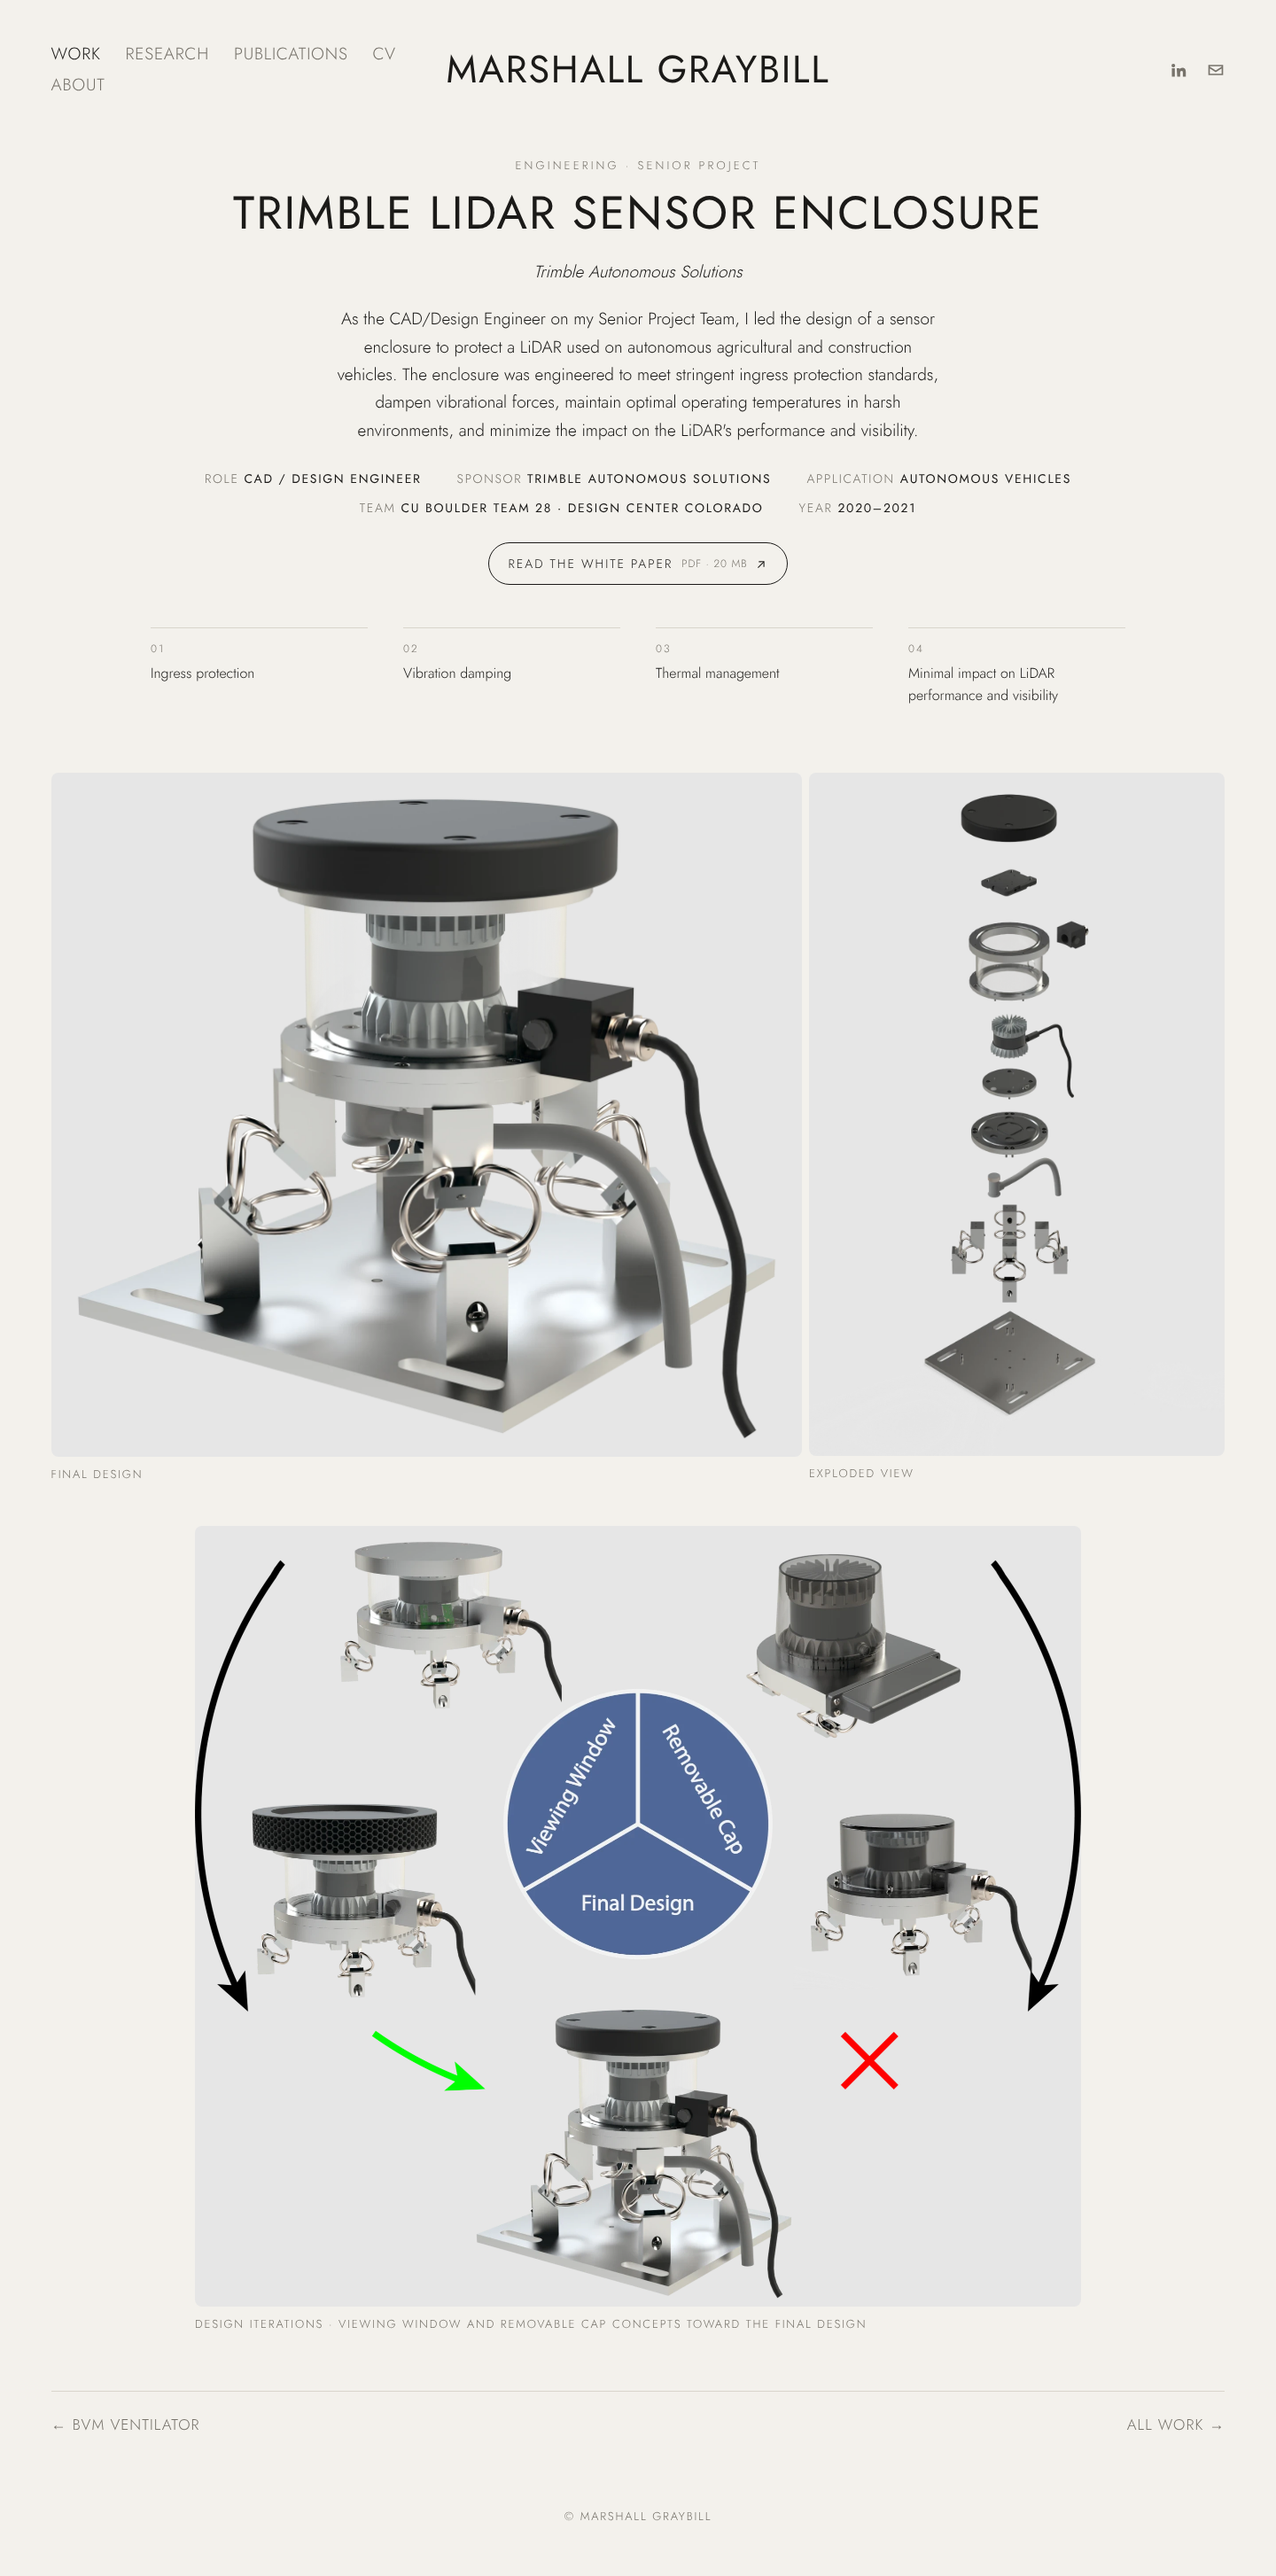
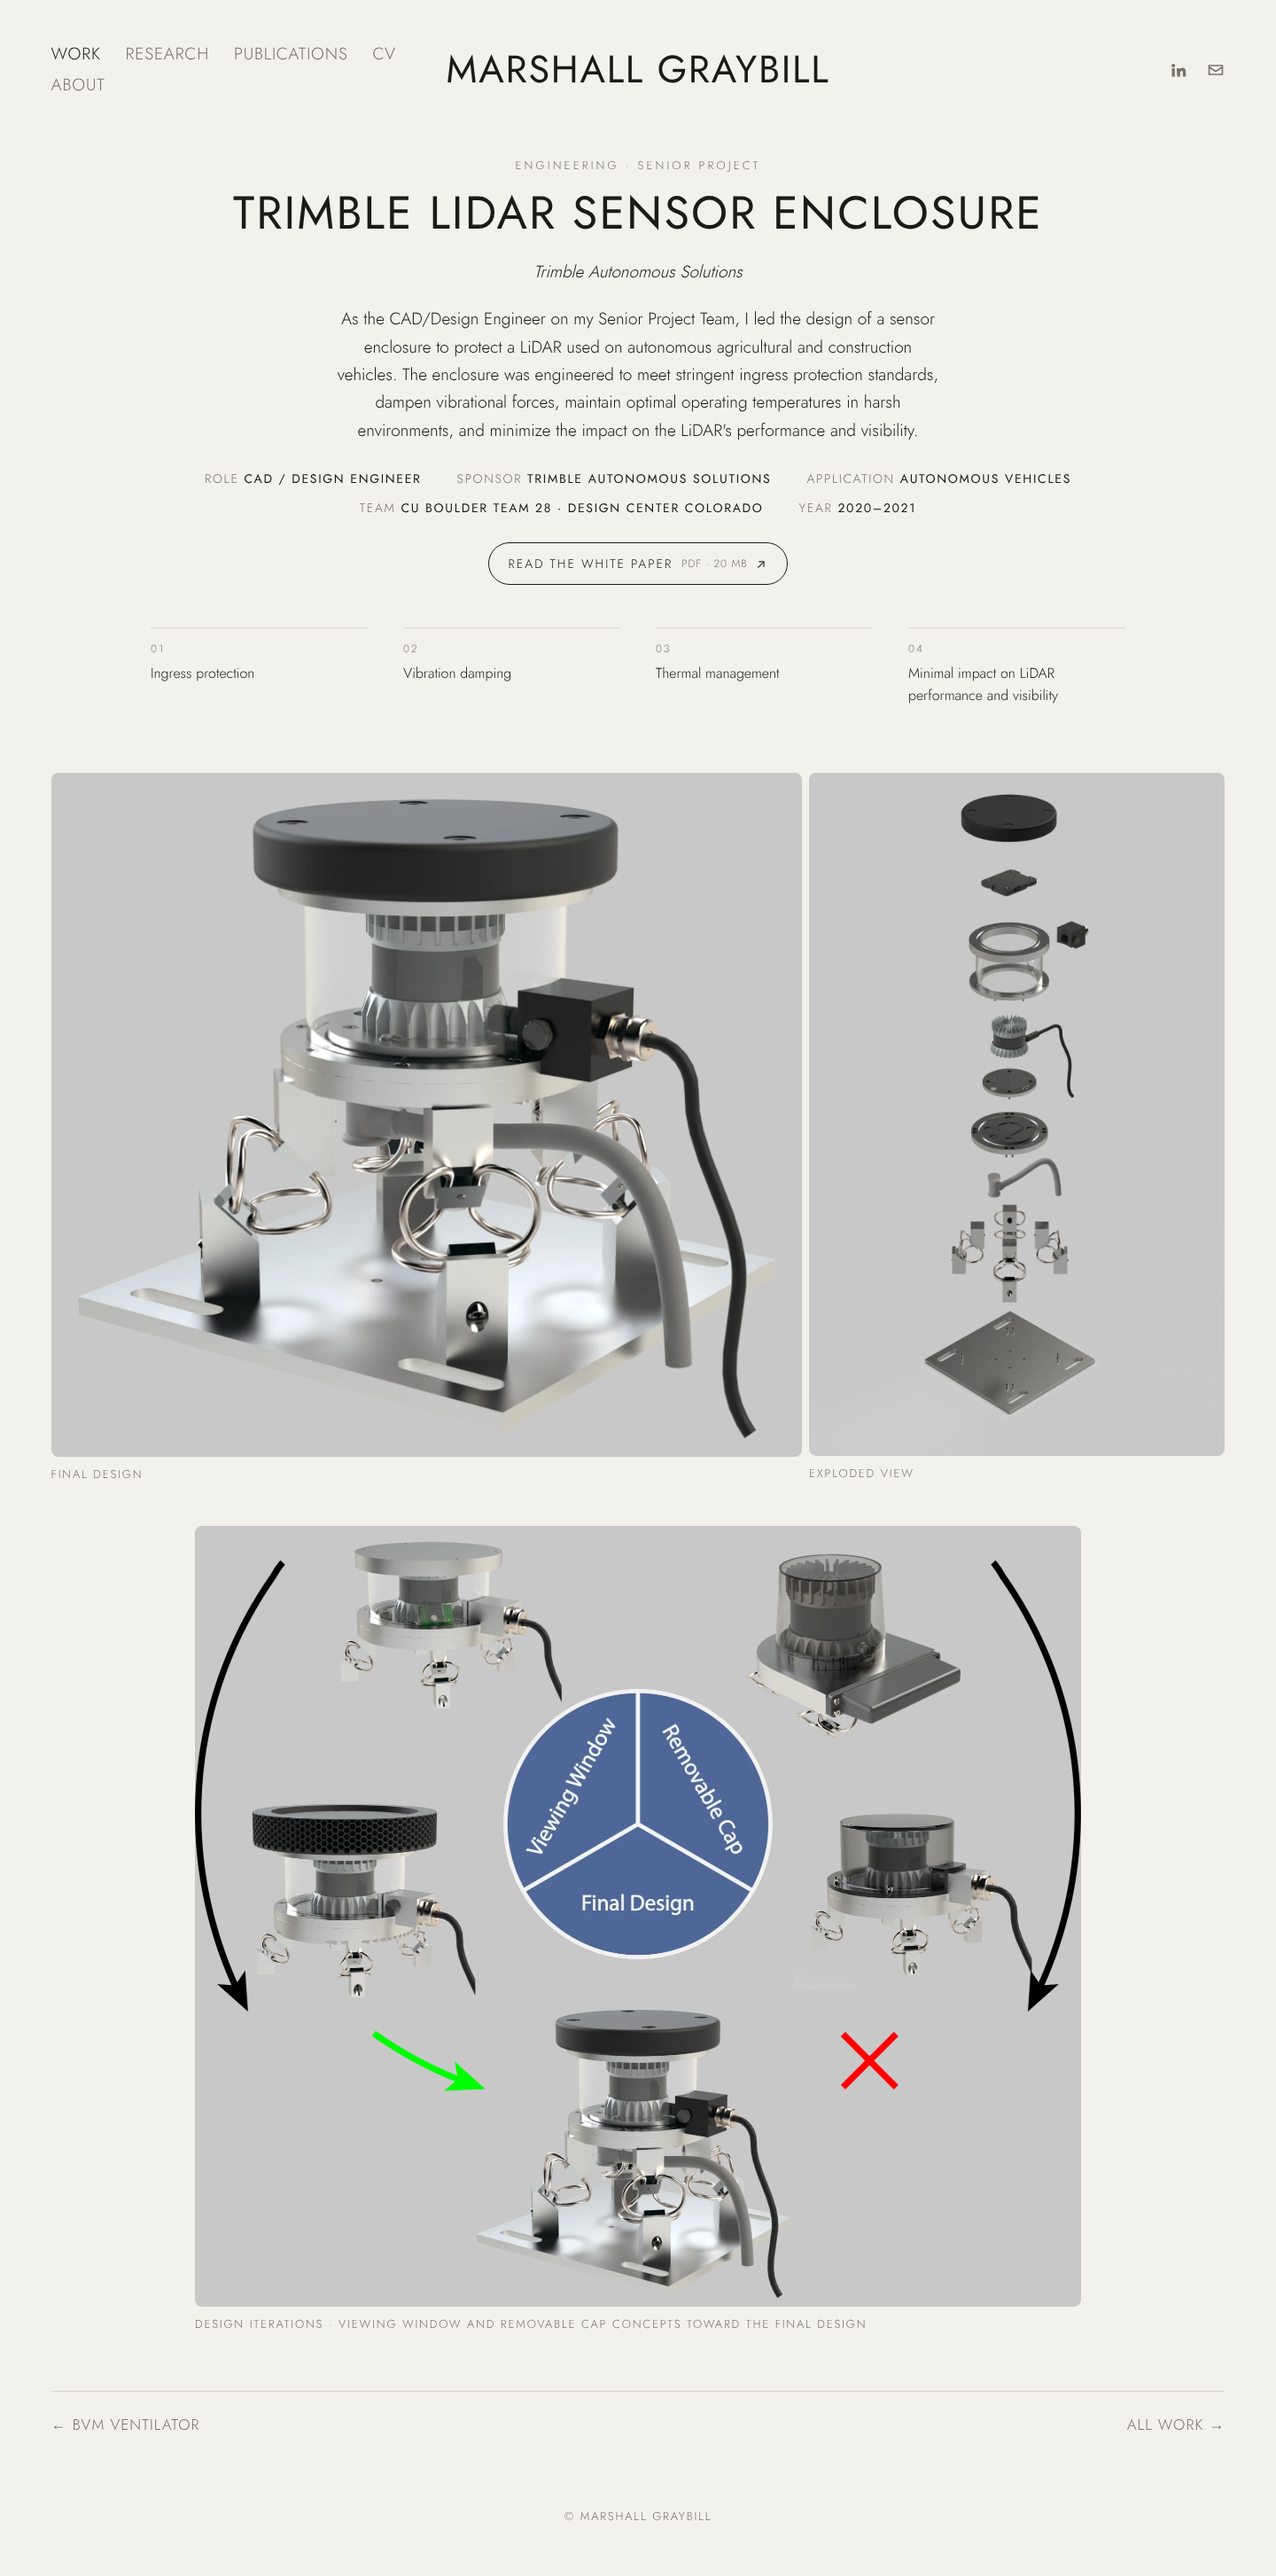
Trimble: try darker gray panels
Claude-Session: https://claude.ai/code/session_01FRyJPBebUtKmxdzujR9oGm

diff --git a/css/style.css b/css/style.css
@@ -8,7 +8,7 @@
   --ink: #1b1a18;     /* main text */
   --dim: #77736b;     /* menu items, secondary text */
   --tile: #e4e1da;    /* shown behind images while they load */
-  --panel: #e6e6e6;   /* behind renders with transparent backgrounds (white: #fff) */
+  --panel: #c8c8c8;   /* behind renders with transparent backgrounds (white: #fff) */
   --radius: 8px;      /* rounded image corners */
   --gap: 8px;         /* space between grid tiles */
   --edge: clamp(16px, 4vw, 80px);  /* page side margins */
